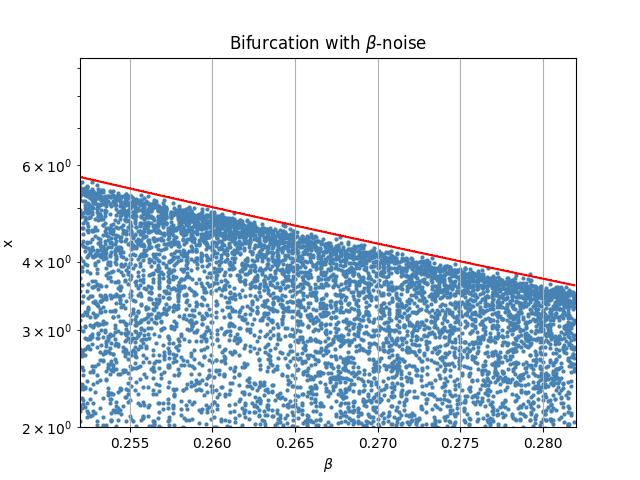
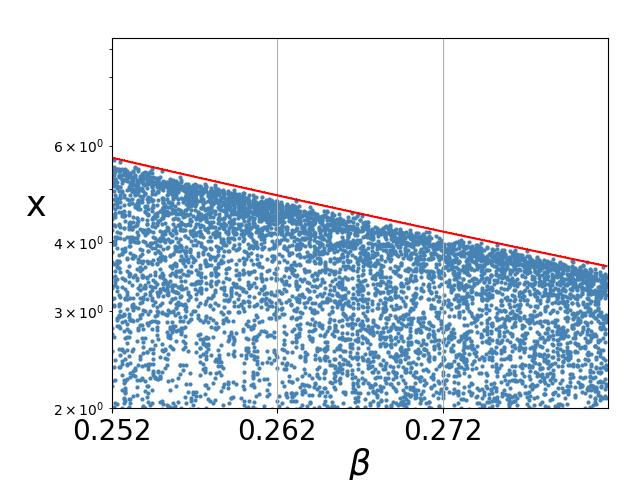
Upd

diff --git a/grpah/runner.py b/grpah/runner.py
@@ -954,7 +954,7 @@ def run_stochastic_sensitivity_b_noise():
                 .setup_y_ticks(font_size=13)
                 .setup_y_scale(scale.log)
                 .setup_grid(grid.major)
-                .setup_title('Bifurcation with $\\beta$-noise')
+                # .setup_title('Bifurcation with $\\beta$-noise')
                 .scatter(chaos[0], chaos[1], '.', colors.steel_blue))
 
     for line in source:
@@ -1054,6 +1054,7 @@ def run_stochastic_sensitivity_b_noise_2():
     plotter = (Plotter()
                 .setup_x_limit(0.352, 0.387)
                 .setup_y_limit(0.7, 1.6)
+                .setup_grid(grid.major)
                 .adjust(top=0.92, bottom=0.15, left=0.175, right=0.95)
                 .setup_x_label('$\\beta$', font_size=25, label_pad=0)
                 .setup_x_ticks(ticks=np.arange(0.352, 0.387, 0.01), font_size=20)
@@ -1103,7 +1104,14 @@ def run_stochastic_sensitivity_b_noise_3():
     plotter = (Plotter()
                 .setup_x_limit(0.24, 0.27)
                 .setup_y_limit(0.0003, 0.002)
-               ._setup('$\\beta$', 'x', 'log', 'major', 'Bifurcation with $\\beta$-noise')
+                .setup_y_scale(scale.log)
+                .setup_grid(grid.major)
+                .setup_x_label('$\\beta$', font_size=25, label_pad=0)
+                .setup_y_label('x', font_size=25, label_pad=12)
+                .setup_x_ticks(ticks=np.arange(0.24, 0.27, 0.01), font_size=20)
+                .setup_y_ticks(font_size=15)
+                .adjust(top=0.92, bottom=0.15, left=0.175, right=0.95)
+               # ._setup('$\\beta$', 'x', 'log', 'major', 'Bifurcation with $\\beta$-noise')
                .scatter(chaos[0], chaos[1], '.', 'steelblue'))
 
     for line in source:
@@ -1147,7 +1155,14 @@ def run_stochastic_sensitivity_b_noise_4():
     plotter = (Plotter()
                 .setup_x_limit(0.252, 0.282)
                 .setup_y_limit(2, 9.4)
-               ._setup('$\\beta$', 'x', 'log', 'major', 'Bifurcation with $\\beta$-noise')
+                .setup_y_scale(scale.log)
+                .setup_grid(grid.major)
+                .setup_x_label('$\\beta$', font_size=25, label_pad=0)
+                .setup_y_label('x', font_size=25, label_pad=12)
+                .setup_x_ticks(ticks=np.arange(0.252, 0.282, 0.01), font_size=20)
+                .setup_y_ticks(font_size=15)
+                .adjust(top=0.92, bottom=0.15, left=0.175, right=0.95)
+               # ._setup('$\\beta$', 'x', 'log', 'major', 'Bifurcation with $\\beta$-noise')
                .scatter(chaos[0], chaos[1], '.', 'steelblue'))
 
     for line in source:

diff --git a/latex/stochastic/texfiles/stochastic_sensetivity_function.tex b/latex/stochastic/texfiles/stochastic_sensetivity_function.tex
@@ -29,9 +29,9 @@
             \label{bifurcation_x_0_2_a_1_beta_chaos_fss_segment_chaos_down}
         }
             
-        \caption{Бифуркационная диаграмма с ФСЧ}
+        \caption{Бифуркационная диаграмма с ФСЧ для модели \ref{beta_chaos}}
     \end{figure}
 
     Рассмотрим участок от \(\beta \approx 0.45\) до \(\beta \approx 0.48\), он изображен на рисунке \ref{bifurcation_x_0_2_a_1_beta_chaos_fss_segment_stable}. Мы видим, что значения графика бифуркации почти всегда находятся в коридоре, границами которого являются значения ФСЧ. Этот коридор строится по правилу трех сигм. Такой подход гарантирует, что почти все значения будут находиться в этом интервале, что собственно мы и наблюдаем.
 
-    На участках с k-циклами и хаосом (рисунки \ref{bifurcation_x_0_2_a_1_beta_chaos_fss_segment_2_cycle}, \ref{bifurcation_x_0_2_a_1_beta_chaos_fss_segment_chaos_up} и \ref{bifurcation_x_0_2_a_1_beta_chaos_fss_segment_chaos_down]}) будет наблюдаться аналогичная ситуация: значения лежат в коридоре, ограниченном значениями ФСЧ.
+    На участках с k-циклами и хаосом (рисунки \ref{bifurcation_x_0_2_a_1_beta_chaos_fss_segment_2_cycle}, \ref{bifurcation_x_0_2_a_1_beta_chaos_fss_segment_chaos_up} и \ref{bifurcation_x_0_2_a_1_beta_chaos_fss_segment_chaos_down}) будет наблюдаться аналогичная ситуация: значения лежат в коридоре, ограниченном значениями ФСЧ.
